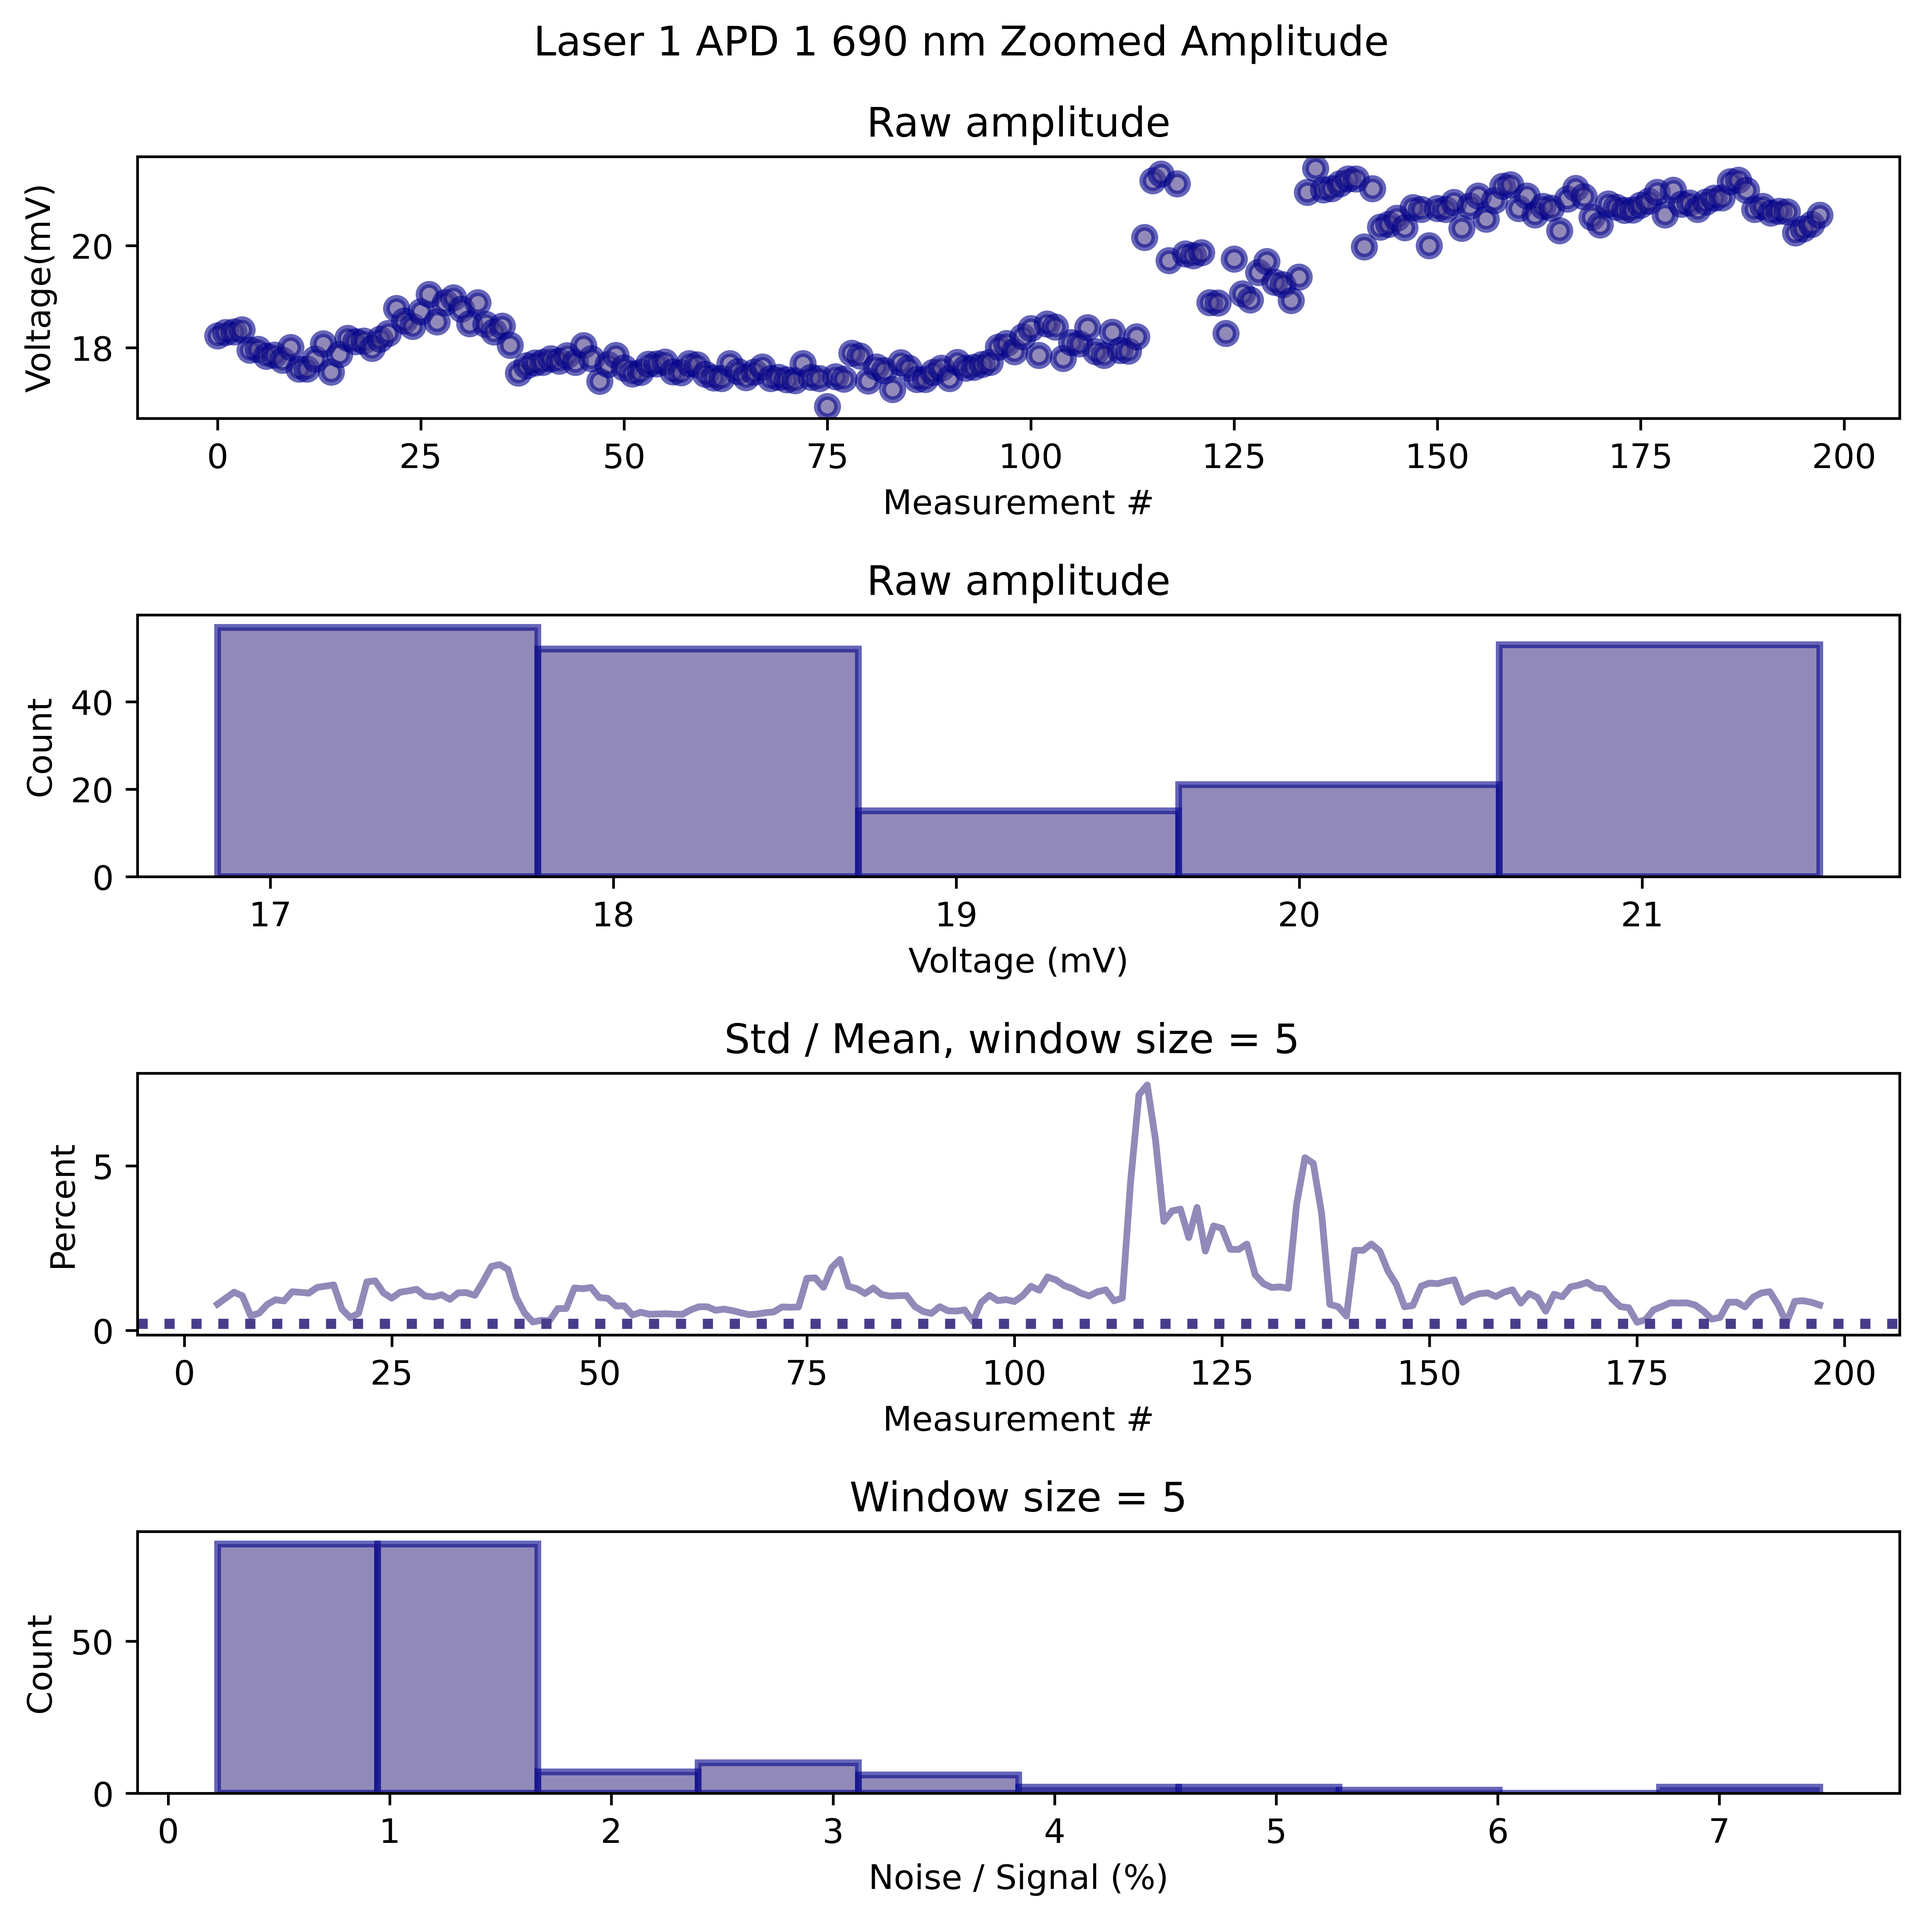
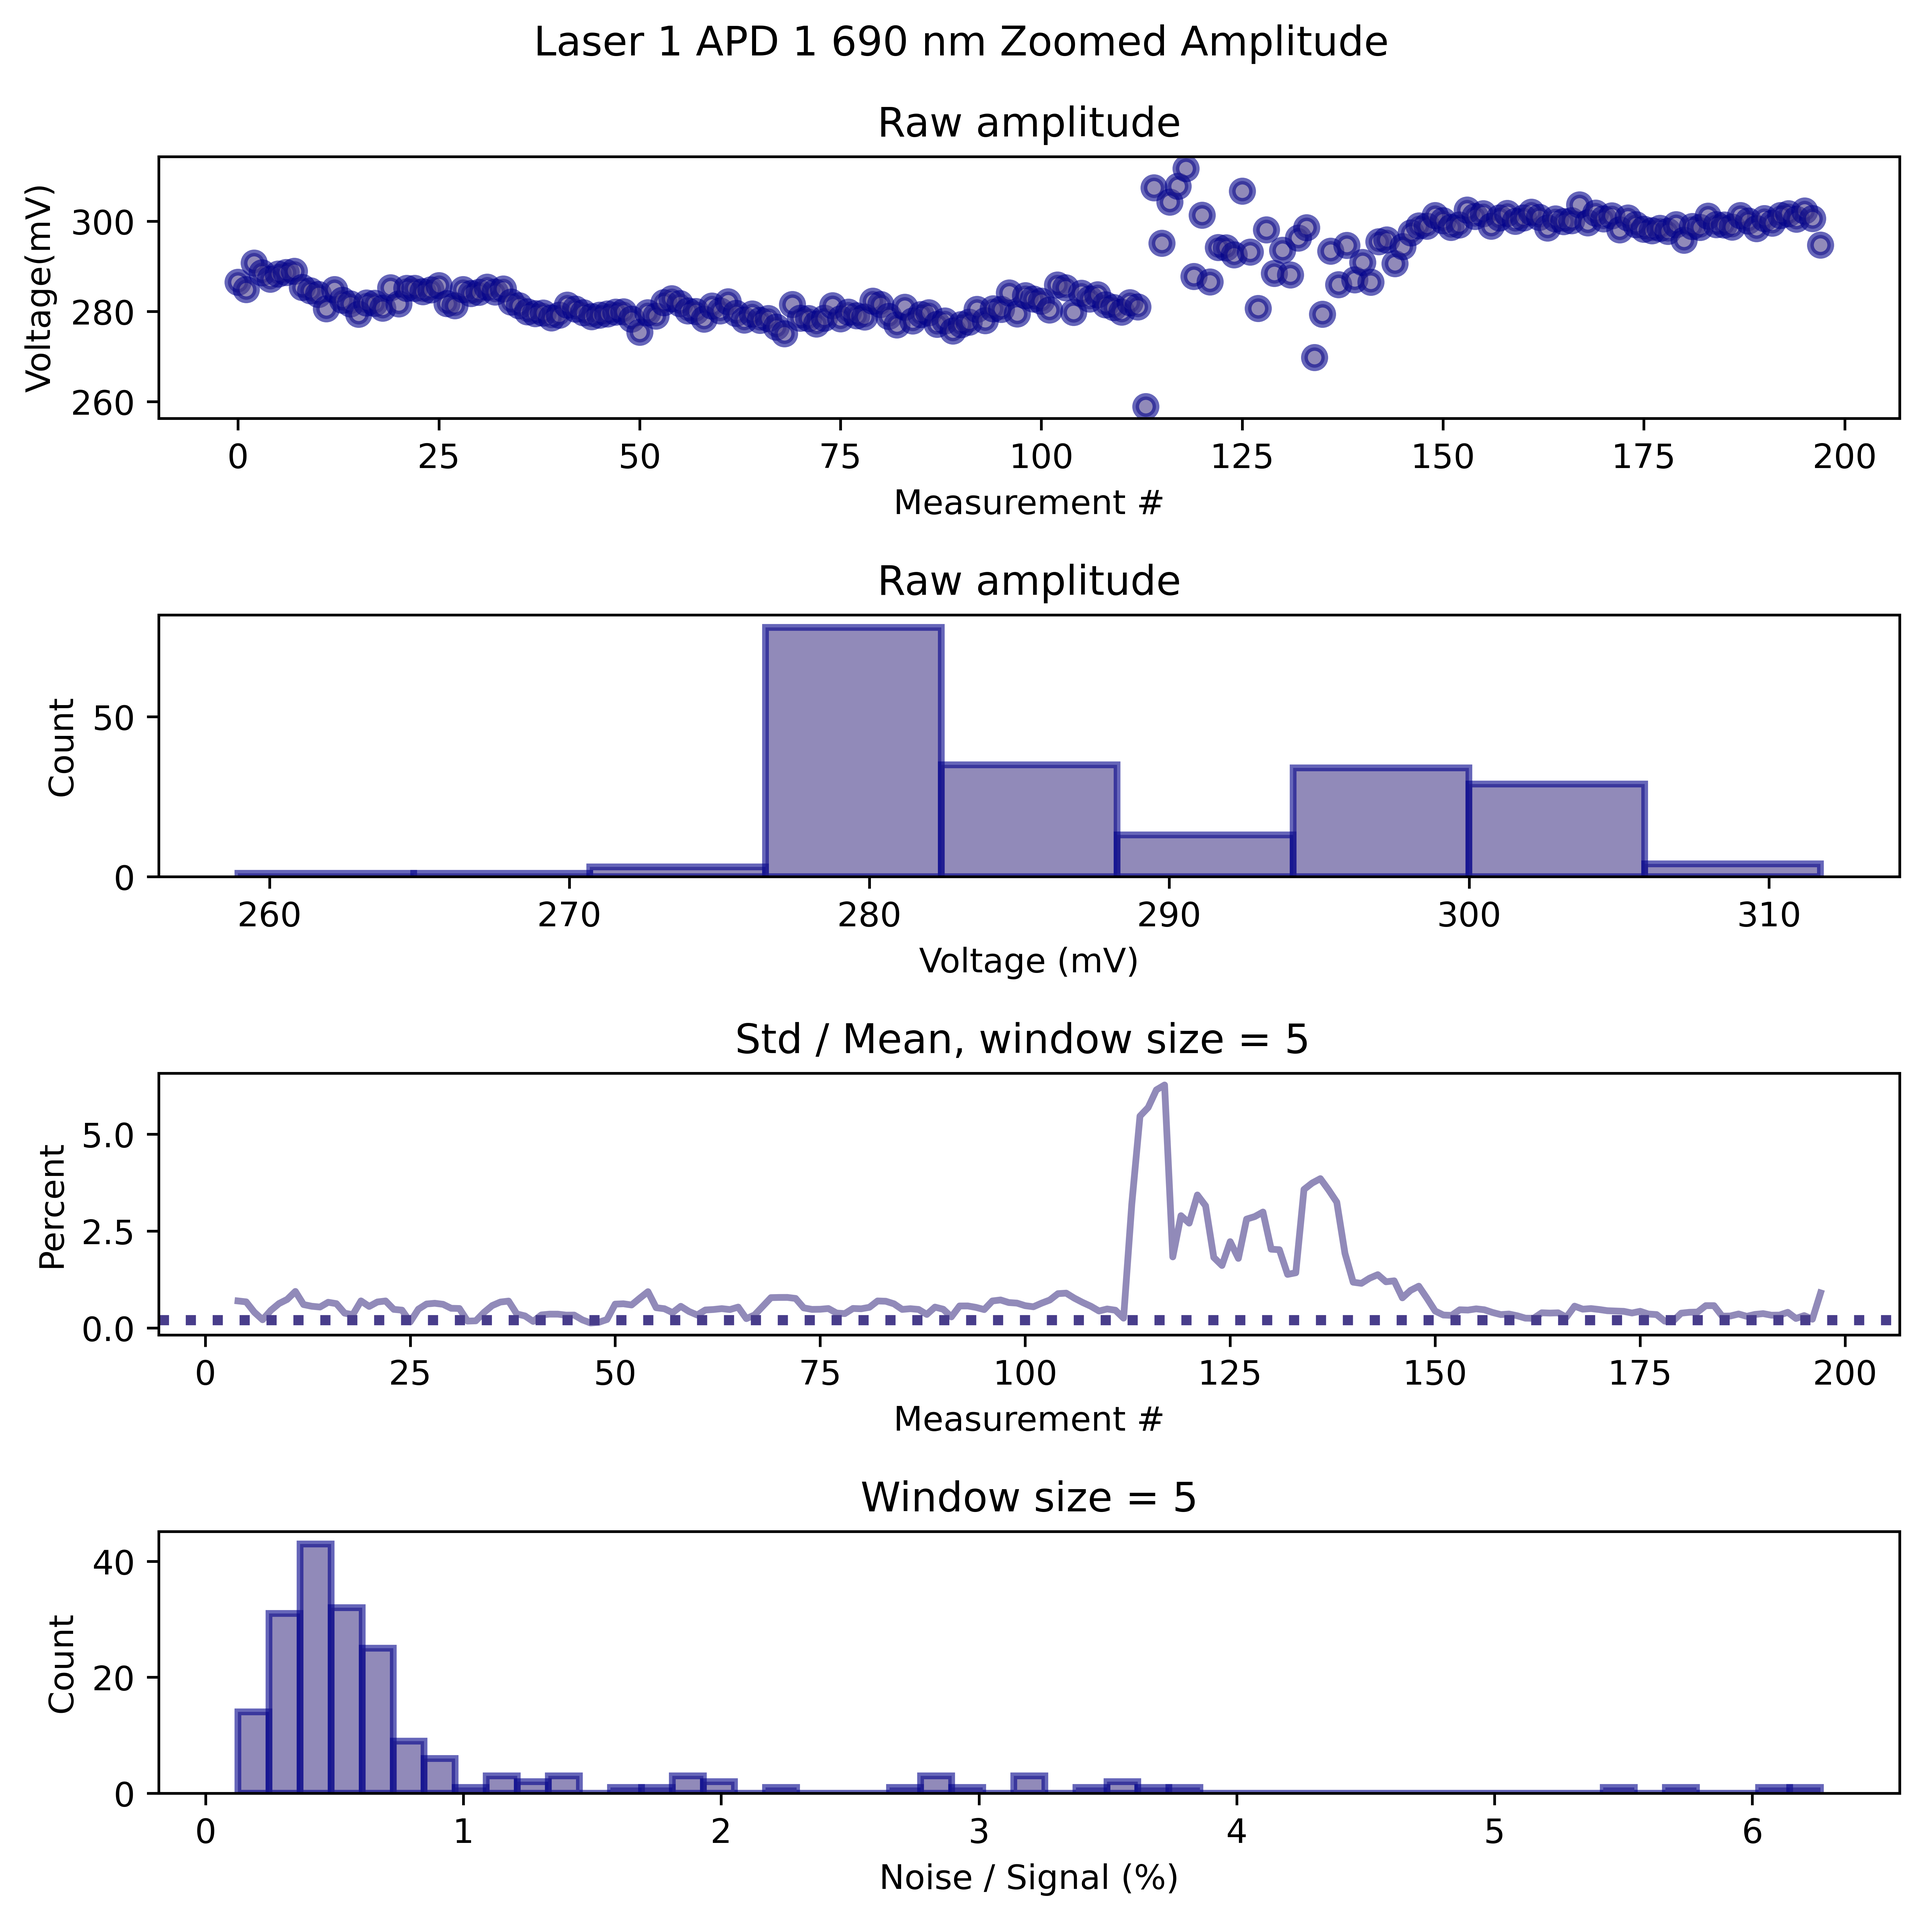
Returned to the old amplitude coefficients.

diff --git a/LongMeasurementStabilityPlots.py b/LongMeasurementStabilityPlots.py
@@ -3,6 +3,7 @@
 # Add a ability to pass plot names
 # Add a new function for dual slope style plots
 import numpy as np
+import numpy.ma as ma
 import matplotlib.pyplot as plt
 import csv
 from pathlib import Path as Path
@@ -20,7 +21,7 @@ def voltage2phase4sine(phase_voltage, p):
     x = (phase_voltage - p[3]) / (p[0] * p[1])
     y = np.arcsin(x)
     phase = (y / (2 * np.pi * p[2])) - 90
-    return phase
+    return -phase
 
 
 def rolling_apply(fun, a, w):
@@ -74,7 +75,7 @@ def plot_amplitude_nsr(amp, wavelength, windowed=True, window_size=5, title=None
     ax.set_title('Std / Mean, window size = {} '.format(window_size))
 
     ax = axes[3]
-    ax.hist(100 * std / mean, color=color, alpha=0.6,
+    ax.hist(100 * std / mean, color=color, alpha=0.6, bins='fd',
             linewidth=2, edgecolor=edgecolor, label='{} nm'.format(wavelength))
     ax.set_xlabel('Noise / Signal (%)')
     ax.set_ylabel('Count')
@@ -157,16 +158,16 @@ def read_phases_from_csv(save_location, amplitudes, demodulator_coefficients):
     return phases
 
 
-demodulator1Coefficients = {'Amplitude Slope': 0.280,
+demodulator1Coefficients = {'Amplitude Slope': 0.2063,
                             'Phase Coefficients': np.array([1.6e-7, -4.3e-5, 2.6e-4, 0.2085])
                             }
-demodulator2Coefficients = {'Amplitude Slope': 0.294,
+demodulator2Coefficients = {'Amplitude Slope': 0.2063,
                             'Phase Coefficients': np.array([1.6e-7, -4.3e-5, 2.6e-4, 0.2085])
                             }
-saveLoc = Path.joinpath(Path('2022-05-11'), Path('DUAL-SLOPE-690'), Path('1'))
+saveLoc = Path.joinpath(Path('2022-05-10'), Path('DUAL-SLOPE-690'), Path('1'))
 
 mask = [39, 71, 138, 167, 222, 254, 268]
-windowSize = 5
+windowSize = 10
 
 
 amplitudes = read_amplitudes_from_csv(saveLoc,
@@ -174,25 +175,28 @@ amplitudes = read_amplitudes_from_csv(saveLoc,
 phases = read_phases_from_csv(saveLoc, amplitudes=amplitudes,
                               demodulator_coefficients=demodulator1Coefficients)
 
-plot_amplitude_nsr(amplitudes.T[5], 690, window_size=windowSize, title='Laser 1 APD 1')
-plot_phase(phases.T[5], 690, window_size=windowSize, title='Laser 1 APD 1')
-# plot_amplitude_nsr(amplitudes.T[1], 690, window_size=windowSize, title='Laser 1 APD 2')
-# plot_phase(phases.T[1], 690, window_size=windowSize, title='Laser 1 APD 2')
+plot_amplitude_nsr(amplitudes.T[4], 690, window_size=windowSize, title='Laser 1 APD 1')
+plot_phase(phases.T[4], 690, window_size=windowSize, title='Laser 1 APD 1')
+plot_amplitude_nsr(amplitudes.T[5], 690, window_size=windowSize, title='Laser 1 APD 2')
+plot_phase(phases.T[5], 690, window_size=windowSize, title='Laser 1 APD 2')
 
-# plot_amplitude_nsr(amplitudes.T[6], 690, window_size=windowSize, title='Laser 2 APD 1')
-# plot_phase(phases.T[6], 690, window_size=windowSize, title='Laser 2 APD 1')
-# plot_amplitude_nsr(amplitudes.T[7], 690, window_size=windowSize, title='Laser 2 APD 2')
-# plot_phase(phases.T[7], 690, window_size=windowSize, title='Laser 2 APD 2')
+plot_amplitude_nsr(amplitudes.T[6], 690, window_size=windowSize, title='Laser 2 APD 1')
+plot_phase(phases.T[6], 690, window_size=windowSize, title='Laser 2 APD 1')
+plot_amplitude_nsr(amplitudes.T[7], 690, window_size=windowSize, title='Laser 2 APD 2')
+plot_phase(phases.T[7], 690, window_size=windowSize, title='Laser 2 APD 2')
 
+
+# plot_amplitude_nsr(amplitudes.T[4] / amplitudes.T[5], 690, window_size=windowSize, title='Laser 1 APD 1 APD 2')
+# plot_amplitude_nsr(amplitudes.T[7] / amplitudes.T[6], 690, window_size=windowSize, title='Laser 2 APD 1 APD 2')
+# plot_amplitude_nsr((amplitudes.T[4] / amplitudes.T[5]) / (amplitudes.T[7] / amplitudes.T[6]), 690,
+#                    window_size=windowSize, title='Laser 1 2 APD 1 APD 2')
+# plot_phase(phases.T[4] - phases.T[5], 690, window_size=windowSize, title='Laser 1 APD 1 APD 2')
+# plot_phase(phases.T[7] - phases.T[6], 690, window_size=windowSize, title='Laser 2 APD 1 APD 2')
+# plot_phase((phases.T[4] - phases.T[5]) - (phases.T[7] - phases.T[6]), 690,
+#            window_size=windowSize, title='Laser 1 2 APD 1 APD 2')
 plt.show()
-# corrcoeffAmp = np.corrcoef(amp4, amp8)
-# print(corrcoeffAmp)
-# print()
-# corrcoeffPha = np.corrcoef(phaseDegrees4, phaseDegrees8)
+
+# corrcoeffPha = ma.corrcoef([ma.masked_invalid(phases.T[4]), ma.masked_invalid(phases.T[5]),
+#                             ma.masked_invalid(phases.T[6]), ma.masked_invalid(phases.T[7])])
 # print(corrcoeffPha)
 # print()
-# corrcoeffAmpPha690 = np.corrcoef(amp4, phaseDegrees4)
-# print(corrcoeffAmpPha690)
-# print()
-# corrcoeffAmpPha830 = np.corrcoef(amp8, phaseDegrees8)
-# print(corrcoeffAmpPha830)
